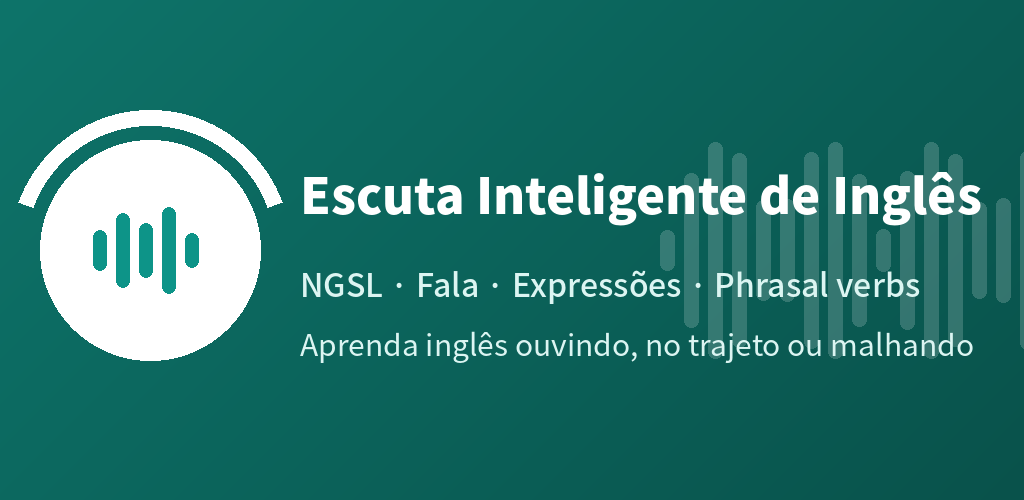
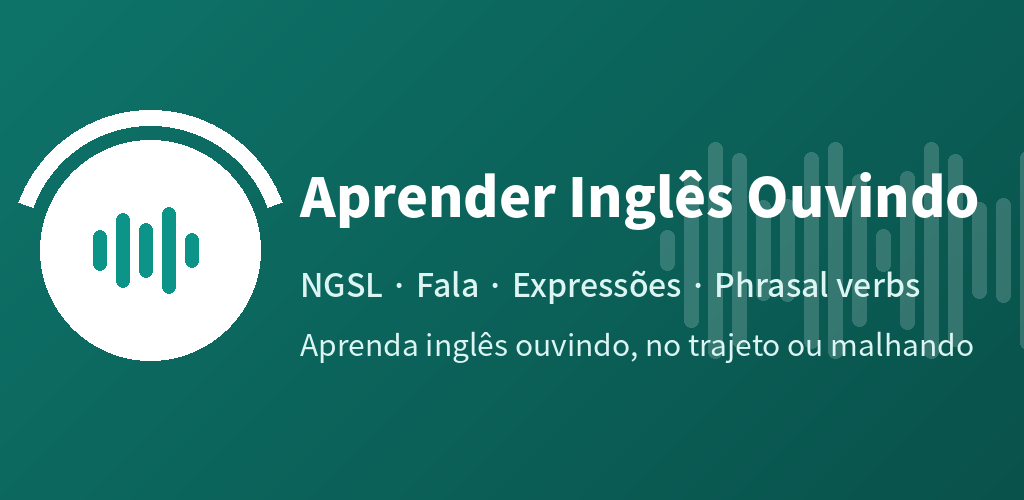
第十五版：7 語 appTitle 改為 ASO 關鍵字名稱（中日韓不變）、分享文字同步、截圖重產；11 語商店名稱＋簡短說明；版本資訊補名稱變更

Changed region(s): [[0.2812, 0.33, 0.9688, 0.48]]

diff --git a/store_assets/store_listing_v15_names.md b/store_assets/store_listing_v15_names.md
@@ -1,0 +1,23 @@
+# 第十五版：11 語商店名稱＋簡短說明（ASO 關鍵字版，2026-09-30 Lawrence 決定）
+
+依據：`store_assets/aso_keywords_2026-09-30.md`。
+決定：繁中/簡中桌面名稱維持「智慧聽覺巡航」、日/韓維持在地品牌名，商店名稱加關鍵字；越、印尼、西、葡、泰、阿、英的**商店名稱與 App 桌面名稱（appTitle）同步改成關鍵字名稱**（第十五版起），讓搜尋到的名稱與裝好後桌面上的名稱一致。
+完整說明不變（英文完整說明見 store_listing_en.md，已改用新名稱）。
+
+**貼上方式**：Play Console →「商店資訊」→「主要商店資訊」→ 語言選單切換 → 只改「應用程式名稱」與「簡短說明」→ 儲存；截圖/主題圖有改的語言（越、印尼、西、葡、泰、阿、英）一併換 `store_assets/localized/<lang>/1_home.png` 與 `feature_graphic.png`。建議與第十五版 AAB 同一次送審，名稱才會與 App 同步。
+
+| 語言代碼 | 應用程式名稱 | 簡短說明 |
+|---|---|---|
+| zh-TW | 智慧聽覺巡航：英文單字・聽力背景朗讀 | 背英文單字改用聽的：核心單字涵蓋日常英文92%，通勤、做家事時背景朗讀，雙語一起聽 |
+| zh-CN | 智慧听觉巡航：英语单词・听力后台朗读 | 背英语单词改用听的：核心单词覆盖日常英语92%，通勤、做家务时后台朗读，双语一起听 |
+| ja-JP | 英単語 聞き流し｜スマートリスニング | 英単語は聞き流しで覚える。日常英語の92%をカバーする頻出単語を、通勤・家事中にバックグラウンド再生 |
+| ko-KR | 영단어 흘려듣기 - 스마트 리스닝 크루즈 | 영어 단어 암기, 이제 흘려듣기로. 일상 영어의 92%를 차지하는 핵심 영단어를 잠금화면에서도 듣기 |
+| vi | Học Từ Vựng Tiếng Anh Qua Nghe | Học từ vựng tiếng Anh bằng cách nghe: từ cốt lõi phủ 92% tiếng Anh hằng ngày |
+| id | Kosakata Inggris Sambil Dengar | Belajar kosakata bahasa Inggris sambil dengar: kata inti 92% bahasa Inggris |
+| es-419 | Aprender Inglés Escuchando | Aprende vocabulario en inglés escuchando: palabras clave del 92% del inglés |
+| pt-BR | Aprender Inglês Ouvindo | Aprenda vocabulário de inglês ouvindo: palavras que cobrem 92% do inglês |
+| th | คำศัพท์ภาษาอังกฤษ ฝึกฟัง | เรียนคำศัพท์ภาษาอังกฤษด้วยการฟัง คำหลักครอบคลุม 92% ของภาษาอังกฤษในชีวิตประจำวัน |
+| ar | تعلم الإنجليزية بالاستماع | تعلم مفردات الإنجليزية بالاستماع: كلمات أساسية تغطي 92% من الإنجليزية اليومية |
+| en-US | English Words Audio Cruise | Learn core English vocabulary by listening: 92% of daily English, hands-free |
+
+（字數皆已檢查：名稱 ≤30、簡短說明 ≤80。）

diff --git a/store_assets/release_notes_v15.md b/store_assets/release_notes_v15.md
@@ -2,6 +2,7 @@
 
 <en-US>
 ・New: "Share with friends" in the menu — recommend the app via LINE, WhatsApp, email and more
+・The app is now called "English Words Audio Cruise"
 </en-US>
 
 <zh-TW>
@@ -22,24 +23,30 @@
 
 <vi>
 ・Thêm mục "Chia sẻ với bạn bè" trong menu, giới thiệu ứng dụng qua Zalo, Messenger, email…
+・Ứng dụng đổi tên thành "Học Từ Vựng Tiếng Anh Qua Nghe"
 </vi>
 
 <id>
 ・Baru: menu "Bagikan ke teman" untuk merekomendasikan aplikasi lewat WhatsApp, email, dan lainnya
+・Nama aplikasi kini "Kosakata Inggris Sambil Dengar"
 </id>
 
 <es-419>
 ・Nuevo: opción "Compartir con amigos" en el menú para recomendar la app por WhatsApp, correo y más
+・La app ahora se llama "Aprender Inglés Escuchando"
 </es-419>
 
 <pt-BR>
 ・Novo: opção "Compartilhar com amigos" no menu para recomendar o app pelo WhatsApp, e-mail e mais
+・O app agora se chama "Aprender Inglês Ouvindo"
 </pt-BR>
 
 <th>
 ・เพิ่มเมนู "แชร์ให้เพื่อน" แนะนำแอปผ่าน LINE, WhatsApp, อีเมล และอื่น ๆ
+・เปลี่ยนชื่อแอปเป็น "คำศัพท์ภาษาอังกฤษ ฝึกฟัง"
 </th>
 
 <ar>
 ・جديد: خيار "شارك مع الأصدقاء" في القائمة للتوصية بالتطبيق عبر واتساب والبريد الإلكتروني وغيرها
+・تغيّر اسم التطبيق إلى "تعلم الإنجليزية بالاستماع"
 </ar>

diff --git a/store_assets/store_listing_en.md b/store_assets/store_listing_en.md
@@ -9,7 +9,7 @@ TestersCommunity 回饋「商店說明文字與關鍵字不足」：原因是一
 ## App 名稱（26/30）
 
 ```
-Smart English Audio Cruise
+English Words Audio Cruise
 ```
 
 ## 簡短說明（76/80）
@@ -21,7 +21,7 @@ Learn core English vocabulary by listening: 92% of daily English, hands-free
 ## 完整說明（3360/4000）
 
 ```
-Smart English Audio Cruise is for everyone who has studied English many times but never quite made it stick.
+English Words Audio Cruise is for everyone who has studied English many times but never quite made it stick.
 
 If you have bought course after course and downloaded app after app, only to give up halfway, the problem may not be you. It may be that your study time was never spent on the words that really matter.
 

diff --git a/store_assets/aso_keywords_2026-09-30.md b/store_assets/aso_keywords_2026-09-30.md
@@ -1,4 +1,4 @@
-# ASO 關鍵字調查與名稱／簡短說明提案（2026-09-30，草稿，待 Lawrence 決定）
+# ASO 關鍵字調查與名稱／簡短說明提案（2026-09-30；已決定，最終版見 store_listing_v15_names.md）
 
 方法：各語言在網路上搜尋 Google Play 同類英文學習 App（單字、聽力、聞き流し等），看競品名稱與簡短說明實際用的詞。沒有付費 ASO 工具的搜尋量數據，屬「競品常用詞」的定性調查；正式上架後改用 Play Console「商店資訊成效→搜尋字詞」實際數據調整。
 
